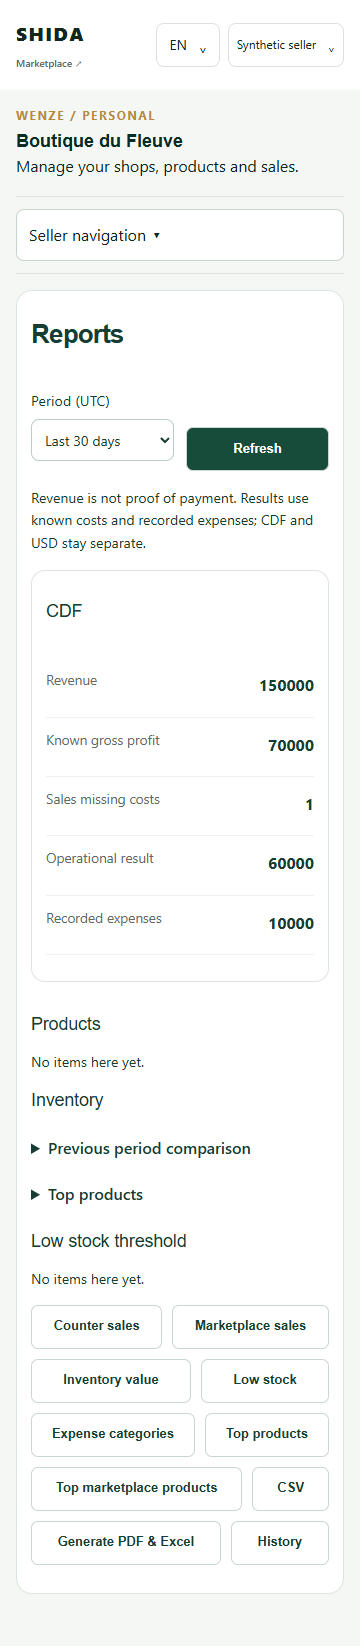
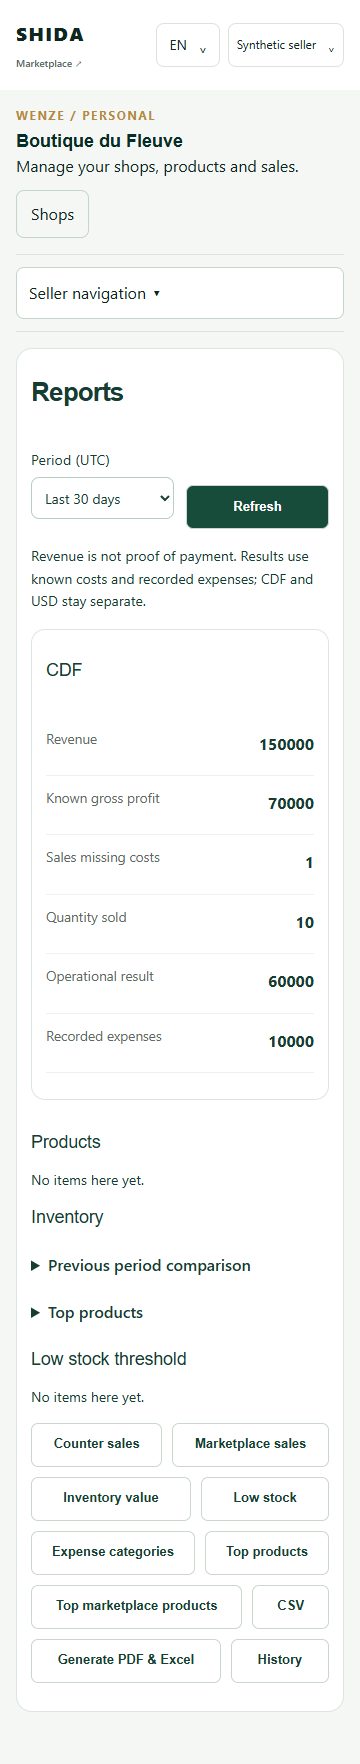
feat(wenze): add Today overview and unlock personal seller tools for testing
- Make Today the default seller screen with order, stock, and financial summaries
- Enable all implemented Free and Pro features during the testing period
- Preserve ownership checks and business account permissions
- Add localized copy and tests for the overview and pilot access

diff --git a/app/components/shida/wenze-workspace.tsx b/app/components/shida/wenze-workspace.tsx
@@ -4,6 +4,7 @@ import Image from "next/image";
 import { useEffect, useRef, useState, type FormEvent } from "react";
 import { useWenzeApi, DashboardApiError } from "@/app/lib/wenze-seller-api";
 import { useWorkDraft, leaveWork } from "@/app/lib/restaurant-work";
+import { WenzeToday } from "./wenze-today";
 import { WenzeOperations } from "./wenze-operations";
 import { sellerText } from "@/app/lib/wenze-seller-copy";
 
@@ -24,7 +25,7 @@ const enc = encodeURIComponent;
 
 export function WenzeWorkspace({locale}:{locale:WenzeLocale}) {
   const {request} = useWenzeApi();
-  const [view,setView]=useState("catalog"),[navigationOpen,setNavigationOpen]=useState(false);
+  const [view,setView]=useState("today"),[navigationOpen,setNavigationOpen]=useState(false);
   const st=(key:string)=>sellerText(locale,key);
   const t = (key: string) => wenzeCopy[locale][key as WenzeKey] ?? "—";
   const context="personal";
@@ -46,9 +47,11 @@ export function WenzeWorkspace({locale}:{locale:WenzeLocale}) {
       if (ticket !== generation.current) return;
       const data = value as { stores: Item[]; categories: Category[]; currencies?: string[] }; setStores(data.stores); setCategories(data.categories); setCurrencies(data.currencies?.length ? data.currencies : ["CDF", "USD"]);
       const params = new URLSearchParams(window.location.search), storeRef = params.get("store"), productRef = params.get("product");
+      if (!storeRef && data.stores.length===1 && !archived) {setStore(data.stores[0]);await loadProducts(data.stores[0],0);}
+      if (!storeRef && params.get("view")==="catalog")setView("catalog");
       if (storeRef) {
         const [selected, selectedProduct] = await Promise.all([request(`${root}/${enc(storeRef)}`), productRef ? request(`${root}/${enc(storeRef)}/products/${enc(productRef)}`) : Promise.resolve(null)]) as Item[];
-        if (ticket === generation.current) { setStore(selected); setProduct(selectedProduct); await loadProducts(selected,0); const destination=params.get("view");if(destination&&["catalog","orders","imports","inventory","sales","costs","expenses","reports","schedules"].includes(destination))setView(destination); }
+        if (ticket === generation.current) { setStore(selected); setProduct(selectedProduct); if(productRef)setView("catalog"); await loadProducts(selected,0); const destination=params.get("view");if(destination&&["today","catalog","orders","imports","inventory","sales","costs","expenses","reports","schedules"].includes(destination))setView(destination); }
       }
     }).catch(() => { if (ticket === generation.current) setError("unavailable"); });
   }, [context, archived]); // eslint-disable-line react-hooks/exhaustive-deps
@@ -155,8 +158,8 @@ export function WenzeWorkspace({locale}:{locale:WenzeLocale}) {
   }
   function variantAction(action: string, variant?: Option, label?: string) { return run(async () => { setProduct(await send(`${productPath}/variants`, "POST", { expected_revision: product?.revision, action, variant_ref: variant?.public_ref, label, available_quantity: null }) as Item); }); }
   const button = (label: string, action: () => void) => <button type="button" disabled={busy} onClick={action}>{t(label)}</button>;
-  return <main className="rst container rst-management wz-personal"><header className="rst-management-identity"><div><p className="eyebrow">WENZE / {t("personal")}</p><h1>{store?.name ?? t("shops")}</h1><p>{st("intro")}</p></div></header><div className="rst-management-layout"><aside className="rst-management-sidebar"><button className="wz-navigation-toggle" type="button" aria-expanded={navigationOpen} onClick={()=>setNavigationOpen(!navigationOpen)}>{st("navigation")} ▾</button><nav className={`rst-management-nav ${navigationOpen?"is-open":""}`} aria-label={st("navigation")}>{["catalog","orders","imports","inventory","sales","costs","expenses","reports","schedules"].map(tab=><button key={tab} aria-current={view===tab?"page":undefined} onClick={()=>{if(leaveWork()){setEditor(null);setView(tab);setNavigationOpen(false);const url=new URL(window.location.href);url.searchParams.set("view",tab);if(store)url.searchParams.set("store",store.public_ref);window.history.replaceState(null,"",url);}}}>{st(tab)}</button>)}</nav></aside><div className="rst-management-content wz">
-    {view==="orders"||view==="imports"?<WenzeR6Workspace key={view} context={context} locale={locale} initialView={view} initialStore={store?.public_ref}/>:view!=="catalog"?<WenzeOperations key={`${store?.public_ref}:${view}`} store={store} locale={locale} view={view} onChoose={()=>setView("catalog")}/>:<>
+  return <main className="rst container rst-management wz-personal"><header className="rst-management-identity"><div><p className="eyebrow">WENZE / {t("personal")}</p><h1>{store?.name ?? t("shops")}</h1><p>{st("intro")}</p></div>{store&&<button className="wz-change-shop" onClick={()=>{if(leaveWork()){setStore(null);setProduct(null);setView("today");}}}>{t("shops")}</button>}</header><div className="rst-management-layout"><aside className="rst-management-sidebar"><button className="wz-navigation-toggle" type="button" aria-expanded={navigationOpen} onClick={()=>setNavigationOpen(!navigationOpen)}>{st("navigation")} ▾</button><nav className={`rst-management-nav ${navigationOpen?"is-open":""}`} aria-label={st("navigation")}>{["today","catalog","orders","imports","inventory","sales","costs","expenses","reports","schedules"].map(tab=><button key={tab} aria-current={view===tab?"page":undefined} onClick={()=>{if(leaveWork()){setEditor(null);setView(tab);if(tab==="catalog"&&store)void run(()=>loadProducts(store,0));setNavigationOpen(false);const url=new URL(window.location.href);url.searchParams.set("view",tab);if(store)url.searchParams.set("store",store.public_ref);window.history.replaceState(null,"",url);}}}>{st(tab)}</button>)}</nav></aside><div className="rst-management-content wz">
+    {view==="today"?<WenzeToday key={store?.public_ref??"none"} store={store} stores={stores} locale={locale} onChoose={row=>{setStore(row as Item);setProduct(null);}} onNavigate={tab=>{setView(tab);if(tab==="catalog"&&store)void run(()=>loadProducts(store,0));}}/>:view==="orders"||view==="imports"?<WenzeR6Workspace key={view} context={context} locale={locale} initialView={view} initialStore={store?.public_ref}/>:view!=="catalog"?<WenzeOperations key={`${store?.public_ref}:${view}`} store={store} locale={locale} view={view} onChoose={()=>setView("catalog")}/>:<>
     {error && <p role="alert">{t(error)}</p>}{busy && <p role="status">{t("loading")}</p>}
     {!store ? <section><h2>{t("shops")}</h2><div className="wz-actions">{canGovern && button("create", () => void openEditor("createStore"))}<label><input type="checkbox" checked={archived} onChange={event => setArchived(event.target.checked)} />{t("archived")}</label></div>{stores.length === 0 && <p>{t("empty")}</p>}<div className="wz-grid">{stores.map(row => <button className="wz-card" key={row.public_ref} onClick={() => void run(async () => { setStore(await request(`${root}/${enc(row.public_ref)}`) as Item); await loadProducts(row, 0); })}><strong>{row.name}</strong><span>{row.city}</span><span>{t(row.catalog_ready ? "ready" : "setup")}</span></button>)}</div></section> : <>
       <section><div className="wz-actions">{button("back", () => { setStore(null); setProduct(null); setEditor(null); setPlan(null); setPreview(null); })}<h2>{store.name}</h2></div><p>{t(store.catalog_ready ? "ready" : "setup")} · {t(store.order_ready ? "orderReady" : "orderSetup")}</p><div className="wz-actions">{canGovern && store.status === "active" && <>{button("edit", () => void openEditor("store"))}{button("fulfillment", () => void openEditor("fulfillment"))}</>}{button("preview", () => void run(async () => { setPreview(await request(`${storePath}/preview`) as Record<string, unknown>); setPlan(null); }))}{canGovern && button("plan", () => void run(async () => { setPlan(await request(`${storePath}/plan`) as Plan); setPreview(null); }))}{canGovern && button(store.status === "active" ? (store.visible === "true" ? "hide" : "show") : "restore", () => void lifecycle(store.status === "active" ? (store.visible === "true" ? "hide" : "show") : "restore", store, storePath))}{canGovern && store.status === "active" && button("archive", () => void lifecycle("archive", store, storePath))}</div></section>
@@ -164,7 +167,7 @@ export function WenzeWorkspace({locale}:{locale:WenzeLocale}) {
       {product.status === "active" && <><h3>{t("photos")}</h3><p>{t("photoHint")}</p><label>{t("upload")}<input disabled={busy} type="file" accept="image/jpeg,image/png,image/webp" multiple onChange={event => void files(event.target.files)} /></label><div className="wz-grid">{product.photos?.map(photo => <article className="wz-card" key={photo.photo_ref}>{/* Hosted URLs come only from the protected backend. */}<Image unoptimized src={photo.url} alt={product.name} width="220" height="180" /><div className="wz-actions">{["cover", "earlier", "later", "remove"].map(action => <button key={action} disabled={busy} onClick={() => void run(async () => setProduct(await send(`${productPath}/photos`, "POST", { expected_revision: product.revision, action, photo_ref: photo.photo_ref }) as Item))}>{t(action)}</button>)}</div><label>{t("replace")}<input disabled={busy} type="file" accept="image/jpeg,image/png,image/webp" onChange={event => void files(event.target.files, photo.photo_ref)} /></label></article>)}</div>
       <h3>{t("stock")}</h3>{!product.variant_type && stockForm()}<h3>{t("variants")}</h3>{product.variants?.map(variant => <article className="wz-card" key={variant.public_ref}><form className="wz-inline" onSubmit={event => { event.preventDefault(); void variantAction("rename", variant, String(new FormData(event.currentTarget).get("label"))); }}><label>{t("label")}<input name="label" defaultValue={variant.label} required /></label><button disabled={busy}>{t("rename")}</button>{button(variant.is_available === "yes" ? "archive" : "reactivate", () => void variantAction(variant.is_available === "yes" ? "archive" : "reactivate", variant))}</form>{variant.is_available === "yes" && stockForm(variant)}</article>)}{product.variant_type && <form className="wz-inline" onSubmit={event => { event.preventDefault(); void variantAction("add", undefined, String(new FormData(event.currentTarget).get("label"))); }}><label>{t("label")}<input name="label" required /></label><button disabled={busy}>{t("add")}</button></form>}</>}</section>}
     </>}
-    {plan && <section><h2>{t("plan")}</h2><p>{t(plan.plan)} · {t("source")}: {t(["free", "trial", "admin_grant"].includes(plan.source) ? plan.source : "pro")}</p><p>{t("expires")}: {plan.expires_at ? new Date(plan.expires_at).toLocaleDateString(locale) : "—"}</p><p>{t("products")}: {plan.active_products} / {plan.active_product_limit}</p><p>{t("allowance")}: {plan.free_import_used} / {plan.free_import_allowance}{plan.free_import_in_progress && ` (${t("progress")})`}</p><p>{t("benefits")}: {t("shops")}, {t("products")}, {t("photos")}, {t("stock")}, {t("variants")}</p><p>{t("noSelfGrant")}</p>{plan.support_url && <a href={plan.support_url} target="_blank" rel="noreferrer">{t("contact")}</a>}</section>}
+    {plan && <section><h2>{t("plan")}</h2><p>{t(plan.plan)} · {t("source")}: {plan.source==="personal_pilot"?st("pilotTitle"):t(["free", "trial", "admin_grant"].includes(plan.source) ? plan.source : "pro")}</p><p>{t("expires")}: {plan.expires_at ? new Date(plan.expires_at).toLocaleDateString(locale) : "—"}</p><p>{t("products")}: {plan.active_products} / {plan.active_product_limit}</p><p>{t("allowance")}: {plan.free_import_used} / {plan.free_import_allowance}{plan.free_import_in_progress && ` (${t("progress")})`}</p><p>{t("benefits")}: {t("shops")}, {t("products")}, {t("photos")}, {t("stock")}, {t("variants")}</p><p>{t("noSelfGrant")}</p>{plan.support_url && <a href={plan.support_url} target="_blank" rel="noreferrer">{t("contact")}</a>}</section>}
     {preview && <section><h2>{String(preview.name ?? "")}</h2><p>{String(preview.description ?? "")}</p>{preview.price != null && <p>{String(preview.price)} {String(preview.currency)}</p>}{preview.address != null && <p>{String(preview.address)}</p>}{typeof preview.public_detail_url === "string" && <a href={preview.public_detail_url} target="_blank" rel="noreferrer">{t("share")}</a>}{button("close", () => setPreview(null))}</section>}
     {editor && <section className="wz-editor"><h2>{t(editor.kind === "createStore" ? "create" : editor.kind === "store" || editor.kind === "product" ? "edit" : editor.kind)}</h2>{editor.latest && <aside><h3>{t("current")}</h3><p>{editor.latest.name} · {editor.latest.price} {editor.latest.currency}</p><p>{editor.latest.description}</p></aside>}{editor.stale && <label><input type="checkbox" onChange={event => setEditor(old => old ? { ...old, stale: !event.target.checked } : null)} />{t("confirmFresh")}</label>}<form onSubmit={save}><div className="wz-fields">
       {editor.kind === "createStore" && [input("name", undefined, true), input("category"), input("city", undefined, true), input("description")]}

diff --git a/tests/browser/wenze-personal.browser.ts b/tests/browser/wenze-personal.browser.ts
@@ -14,7 +14,7 @@ async function fixture(page:Page,plan='pro'){
   if(path.endsWith('/stores'))return reply({stores:[store],categories:[{code:'other',labels:{en:'Other',fr:'Autre',ln:'Mosusu',sw:'Nyingine'}}],currencies:['CDF','USD']});
   if(path.endsWith('/WNS_fixture'))return reply(store);
   if(path.endsWith('/products'))return reply({products:[product],total:1});if(path.endsWith('/WNP_fixture'))return reply(product);
-  if(path.endsWith('/plan'))return reply({plan,active_products:1,active_product_limit:1000,free_import_used:0,free_import_allowance:1,source:'trial'});
+  if(path.endsWith('/plan'))return reply({plan,active_products:1,active_product_limit:1000,free_import_used:0,free_import_allowance:1,source:plan==='pro'?'personal_pilot':'free'});
   if(path.endsWith('/inventory/stock'))return reply({items:[{item_ref:'INV_fixture',catalog_label:product.name,label:product.name,on_hand:14,reserved:2,available:12,revision:2,unit:'piece',low_stock_threshold:3}],next_cursor:null});
   if(path.endsWith('/counts/ISC_fixture'))return reply({count_ref:'ISC_fixture',revision:1,status:'draft',lines:[]});
   if(path.endsWith('/inventory/summary'))return reply({tracked_items:1,low_stock_items:0});
@@ -22,13 +22,13 @@ async function fixture(page:Page,plan='pro'){
   if(path.endsWith('/expenses'))return reply({expenses:[],next_cursor:null});if(path.endsWith('/priced')||path.endsWith('/manual-sales'))return reply({sales:[],next_cursor:null});
   if(path.endsWith('/report-schedules'))return reply({schedules:[]});
   if(path.endsWith('/catalog-imports/options'))return reply({stores:[store],categories:[],currencies:['CDF','USD'],issues:{}});
-  if(path.endsWith('/catalog-imports'))return reply({jobs:[],total:0});if(path.endsWith('/orders'))return reply({orders:[],counts:{},total:0});
-  if(path.endsWith('/pro/dashboard'))return reply({currency_summaries:[{currency:'CDF',combined_sales:{total_revenue:'150000',known_gross_profit:'70000',sales_missing_cost:1},recorded_operating_expenses:{total:'10000'},operational_result:'60000'}],top_items:{top_by_quantity:[]},low_stock:{items:[]}});
+  if(path.endsWith('/catalog-imports'))return reply({jobs:[],total:0});if(path.endsWith('/orders'))return reply({orders:[],counts:{action_required:3,in_progress:2},total:0});
+  if(path.endsWith('/pro/dashboard'))return reply({currency_summaries:[{currency:'CDF',combined_sales:{total_revenue:'150000',known_gross_profit:'70000',sales_missing_cost:1,quantity_sold:10},recorded_operating_expenses:{total:'10000'},operational_result:'60000',completeness:{profit_complete:false}}],top_items:{top_by_quantity:[]},low_stock:{items:[]}});
   return reply({});
  });return state;
 }
-const nav=async(page:Page,name:string)=>{const button=page.locator('.rst-management-nav').getByRole('button',{name,exact:true});if(!await button.isVisible())await page.locator('.wz-navigation-toggle').click();await button.click();};
-async function openStore(page:Page){await page.goto('/shida/seller/wenze');await page.getByRole('button',{name:/Boutique du Fleuve/}).click();}
+const nav=async(page:Page,name:string)=>{const button=page.locator('.rst-management-nav').getByRole('button',{name,exact:true});await page.locator('.rst-management-sidebar').waitFor({state:'attached'});if(!await button.isVisible())await page.locator('.wz-navigation-toggle').click();await button.click();};
+async function openStore(page:Page){await page.goto('/shida/seller/wenze');await nav(page,'Shops & products');}
 test('Personal catalog, Inventory and Pro reports are connected and responsive',async({page})=>{
  await fixture(page);await openStore(page);await expect(page.getByText('Sac en raphia',{exact:true})).toBeVisible();
  await nav(page,'Inventory');await expect(page.getByRole('cell',{name:'Sac en raphia',exact:true})).toBeVisible();
@@ -40,8 +40,13 @@ test('Personal catalog, Inventory and Pro reports are connected and responsive',
 test('Free sellers retain catalog and stock while Pro tools are gated',async({page})=>{await fixture(page,'free');await openStore(page);await nav(page,'Expenses');await expect(page.getByText('This tool requires Wenze Pro for this shop.')).toBeVisible();await expect(page.getByLabel('Amount',{exact:true})).toHaveCount(0);await nav(page,'Counter sales');await expect(page.getByText('Record stock-only sale',{exact:true})).toBeVisible();await expect(page.getByText('Record sale with price · Pro',{exact:true})).toHaveCount(0);});
 test('uncertain expense retries the original payload with the original key',async({page})=>{const state=await fixture(page);await openStore(page);await nav(page,'Expenses');await page.getByLabel('Amount',{exact:true}).fill('1000');await page.getByLabel('Private note',{exact:true}).fill('Fixture');state.fail=true;await page.getByRole('button',{name:'Save',exact:true}).click();await expect(page.getByText(/result is not confirmed/)).toBeVisible();await page.getByRole('button',{name:'Retry the same action',exact:true}).click();await expect.poll(()=>state.writes.length).toBe(2);expect(state.writes[0]).toEqual(state.writes[1]);await expect(page.getByText('Saved',{exact:true})).toBeVisible();});
 test('session expiry clears private content immediately',async({page})=>{const state=await fixture(page);await openStore(page);state.session=false;await page.evaluate(()=>window.dispatchEvent(new Event('focus')));await expect(page.getByRole('heading',{name:'Your Wenze seller area'})).toBeVisible();await expect(page.getByText('Sac en raphia',{exact:true})).toHaveCount(0);});
-for(const locale of ['fr','ln','sw'])test(`localized seller route ${locale}`,async({page})=>{await fixture(page);await page.setViewportSize({width:360,height:800});await page.goto(`/${locale}/shida/seller/wenze`);await expect(page.getByRole('button',{name:/Boutique du Fleuve/})).toBeVisible();expect(await page.evaluate(()=>document.documentElement.scrollWidth<=window.innerWidth)).toBe(true);});
+for(const locale of ['fr','ln','sw'])test(`localized seller route ${locale}`,async({page})=>{await fixture(page);await page.setViewportSize({width:360,height:800});await page.goto(`/${locale}/shida/seller/wenze`);await expect(page.getByRole('heading',{name:'Boutique du Fleuve',exact:true})).toBeVisible();expect(await page.evaluate(()=>document.documentElement.scrollWidth<=window.innerWidth)).toBe(true);});
 test('stock thresholds preserve revisions and stock-only sales use the exact Inventory item',async({page})=>{const state=await fixture(page,'free');await openStore(page);await nav(page,'Inventory');await page.getByRole('combobox',{name:'Choose a stock item',exact:true}).first().selectOption('INV_fixture');await page.getByLabel('Low stock threshold',{exact:true}).fill('5');await page.getByRole('button',{name:'Save',exact:true}).click();await expect.poll(()=>state.writes.length).toBe(1);expect(state.writes[0].body).toEqual({expected_revision:2,low_stock_threshold:5});await expect(page.getByText('Saved',{exact:true})).toBeVisible();await nav(page,'Counter sales');await page.getByRole('combobox',{name:'Choose a stock item',exact:true}).selectOption('INV_fixture');await page.getByLabel('Quantity',{exact:true}).fill('2');await page.getByRole('button',{name:'Record stock-only sale',exact:true}).click();await expect.poll(()=>state.writes.length).toBe(2);expect(state.writes[1].body.lines).toEqual([{item_ref:'INV_fixture',quantity:2,unit:'piece'}]);});
 test('private cost edits and scheduled reports use the existing Pro contracts',async({page})=>{const state=await fixture(page);await openStore(page);await nav(page,'Private costs');await page.getByRole('combobox',{name:'Choose a product',exact:true}).selectOption('WNP_fixture');await page.getByRole('button',{name:'Manage',exact:true}).click();await page.getByLabel('Amount',{exact:true}).fill('5000');await page.getByRole('button',{name:'Save',exact:true}).click();await expect.poll(()=>state.writes.length).toBe(1);expect(state.writes[0].body).toEqual({expected_revision:1,amount:'5000',currency:'CDF'});await expect(page.getByText('Saved',{exact:true})).toBeVisible();await nav(page,'Scheduled reports');await page.getByRole('combobox',{name:'Scheduled reports',exact:true}).selectOption('monthly');await page.getByRole('button',{name:'Save',exact:true}).click();await expect.poll(()=>state.writes.length).toBe(2);expect(state.writes[1].path).toContain('/report-schedules/monthly');expect(state.writes[1].body).toEqual({enabled:true,formats:['pdf','xlsx'],language:'en'});});
 
 test('an active stock count resumes after a refresh',async({page})=>{await fixture(page,'free');await openStore(page);await nav(page,'Inventory');await page.getByRole('button',{name:'Start count',exact:true}).click();await expect(page).toHaveURL(/count=ISC_fixture/);await page.reload();await expect(page.getByRole('button',{name:'Confirm stock count',exact:true})).toBeVisible();await expect(page.getByRole('button',{name:'Start count',exact:true})).toHaveCount(0);});
+
+test('Today is the default with current work and unlocked pilot statistics',async({page})=>{await fixture(page);await page.goto('/shida/seller/wenze');await expect(page.getByRole('heading',{name:'Today',exact:true})).toBeVisible();await expect(page.getByText('undefined',{exact:true})).toHaveCount(0);await expect(page.getByText('Full access · testing period',{exact:true})).toBeVisible();await expect(page.getByText('150000',{exact:true})).toBeVisible();await expect(page.getByText('Some sales have no recorded cost. Profit figures are incomplete.',{exact:true})).toBeVisible();await expect(page.getByRole('button',{name:/Needs your attention/})).toContainText('3');await page.setViewportSize({width:1440,height:1000});await page.screenshot({path:'docs/evidence/wenze-personal/today-desktop.png',fullPage:true});await page.setViewportSize({width:360,height:800});await page.screenshot({path:'docs/evidence/wenze-personal/today-mobile.png',fullPage:true});expect(await page.evaluate(()=>document.documentElement.scrollWidth<=window.innerWidth)).toBe(true);await page.getByRole('button',{name:/Needs your attention/}).click();await expect(page.locator('.wz-r6')).toBeVisible();});
+test('Free fallback shows operational work without pretending financial data is zero',async({page})=>{await fixture(page,'free');await page.goto('/shida/seller/wenze');await expect(page.getByRole('button',{name:/Needs your attention/})).toContainText('3');await expect(page.getByText(/Financial statistics require Pro/)).toBeVisible();await expect(page.getByText('150000',{exact:true})).toHaveCount(0);});
+test('Today handles a partial failure without hiding the other summaries',async({page})=>{await fixture(page);await page.route('**/inventory/summary/',route=>route.fulfill({status:503,json:{}}));await page.goto('/shida/seller/wenze');await expect(page.getByText('Some information could not be loaded. Refresh to try again.',{exact:true})).toBeVisible();await expect(page.getByRole('button',{name:/Low-stock items/})).toContainText('—');await expect(page.getByText('150000',{exact:true})).toBeVisible();});
+test('an explicit product link opens the catalog instead of Today',async({page})=>{await fixture(page);await page.goto('/shida/seller/wenze?store=WNS_fixture&product=WNP_fixture');await expect(page.getByRole('heading',{name:'Sac en raphia',exact:true})).toBeVisible();});

diff --git a/app/components/shida/wenze-today.tsx b/app/components/shida/wenze-today.tsx
@@ -1,0 +1,34 @@
+"use client";
+import {useEffect,useState} from 'react';
+import {useWenzeApi} from '@/app/lib/wenze-seller-api';
+import {sellerText} from '@/app/lib/wenze-seller-copy';
+import type {WenzeLocale} from '@/app/lib/wenze-copy';
+import {WenzeReportFacts} from './wenze-report-facts';
+type Shop={public_ref:string;name:string;catalog_ready?:boolean;order_ready?:boolean};
+type Row=Record<string,unknown>;
+const object=(value:unknown):Row=>value&&typeof value==='object'&&!Array.isArray(value)?value as Row:{};
+const array=(value:unknown):Row[]=>Array.isArray(value)?value as Row[]:[];
+export function WenzeToday({store,stores,locale,onChoose,onNavigate}:{store:Shop|null;stores:Shop[];locale:WenzeLocale;onChoose:(shop:Shop)=>void;onNavigate:(tab:string)=>void}){
+ const {request}=useWenzeApi(),t=(key:string)=>sellerText(locale,key);
+ const [snapshot,setSnapshot]=useState<{plan:Row|null;orders:Row|null;stock:Row|null;report:Row|null}>({plan:null,orders:null,stock:null,report:null});
+ const [refresh,setRefresh]=useState(0),[busy,setBusy]=useState(false),[partial,setPartial]=useState(false);
+ useEffect(()=>{if(!store)return;let active=true;const base=`wenze/contexts/personal/stores/${encodeURIComponent(store.public_ref)}`;
+  async function load(){setBusy(true);setPartial(false);setSnapshot({plan:null,orders:null,stock:null,report:null});
+   const results=await Promise.allSettled([request(`${base}/plan`),request(`wenze/contexts/personal/orders?store_ref=${encodeURIComponent(store!.public_ref)}&language=${locale}&bucket=action_required&limit=5`),request(`${base}/inventory/summary`)]);
+   if(!active)return;const [p,o,s]=results.map(result=>result.status==='fulfilled'?object(result.value):null);setSnapshot({plan:p,orders:o,stock:s,report:null});let failed=results.some(r=>r.status==='rejected');
+   if(p?.plan==='pro'){try{const report=object(await request(`${base}/pro/dashboard?period=today&top_limit=5&low_stock_limit=5`));if(active)setSnapshot(old=>({...old,report}));}catch{failed=true;}}
+   if(active){setPartial(failed);setBusy(false);}
+  }void load();return()=>{active=false;};
+ },[store,locale,request,refresh]);
+ if(!store)return <section className="wz-today"><h2>{t('todayTitle')}</h2><p>{t('choose')}</p><div className="wz-grid">{stores.map(shop=><button className="wz-card" key={shop.public_ref} onClick={()=>onChoose(shop)}>{shop.name}</button>)}</div><button onClick={()=>onNavigate('catalog')}>{t('create')}</button></section>;
+ const counts=object(snapshot.orders?.counts),stock=snapshot.stock,report=snapshot.report;
+ const metric=(title:string,value:unknown,destination:string)=><button className="wz-today-metric" onClick={()=>onNavigate(destination)}><span>{t(title)}</span><strong>{typeof value==='number'?new Intl.NumberFormat(locale).format(value):'—'}</strong><span aria-hidden="true">↗</span></button>;
+ return <section className="wz-today"><div className="wz-today-heading"><div><h2>{t('todayTitle')}</h2><p>{t('todayWork')}</p></div><button disabled={busy} onClick={()=>setRefresh(refresh+1)}>{t('refresh')}</button></div>
+ {snapshot.plan?.source==='personal_pilot'&&<aside className="wz-pilot"><strong>{t('pilotTitle')}</strong><p>{t('pilotNote')}</p></aside>}
+ {busy&&<p role="status">{t('loading')}</p>}{partial&&<p role="alert">{t('partialToday')}</p>}
+ <h3>{t('currentWork')}</h3><div className="wz-today-metrics">{metric('actionRequired',counts.action_required,'orders')}{metric('inProgress',counts.in_progress,'orders')}{metric('lowStockCount',stock?.low_stock_items,'inventory')}{metric('stockUnknown',stock?Number(stock.untracked_items??0)+Number(stock.uninitialized_items??0):null,'inventory')}</div>
+ {(!store.catalog_ready||!store.order_ready)&&<div className="wz-actions">{!store.catalog_ready&&<button onClick={()=>onNavigate('catalog')}>{t('setupShop')}</button>}{!store.order_ready&&<button onClick={()=>onNavigate('catalog')}>{t('setupOrders')}</button>}</div>}
+ <h3>{t('quickActions')}</h3><div className="wz-actions">{['orders','catalog','sales','inventory','expenses','imports'].map(tab=><button key={tab} onClick={()=>onNavigate(tab)}>{t(tab)}</button>)}</div>
+ <h3>{t('todayStats')}</h3>{report?<><p>{t('reportHint')}</p>{array(report.currency_summaries).length===0?<p>{t('noTodaySales')}</p>:<div className="wz-grid">{array(report.currency_summaries).map(row=>{const sales=object(row.combined_sales);return <article className="wz-card" key={String(row.currency)}><h4>{String(row.currency)}</h4><WenzeReportFacts locale={locale} value={{total_revenue:sales.total_revenue,quantity_sold:sales.quantity_sold,known_gross_profit:sales.known_gross_profit,recorded_operating_expenses:object(row.recorded_operating_expenses).total,operational_result:row.operational_result}}/>{object(row.completeness).profit_complete===false&&<p className="wz-today-warning">{t('missingCostsWarning')}</p>}</article>;})}</div>}<button onClick={()=>onNavigate('reports')}>{t('reports')} →</button></>:!busy&&snapshot.plan?.plan==='free'?<p>{t('todayFree')}</p>:!busy&&<p>{t('unavailable')}</p>}
+ </section>;
+}

diff --git a/app/lib/wenze-seller-copy.ts b/app/lib/wenze-seller-copy.ts
@@ -1,6 +1,8 @@
 import {wenzeCopy,type WenzeLocale,type WenzeKey} from './wenze-copy';
 // Order: English, French, Lingala, Swahili.
 const labels:Record<string,string[]>={
+ todayTitle:['Today','Aujourd’hui','Lelo','Leo'],todayWork:['Your shop at a glance','Votre boutique en un coup d’œil','Boutique na yo na mokuse','Duka lako kwa muhtasari'],currentWork:['Current work · all dates','À traiter maintenant · toutes dates','Mosala ya sikoyo · mikolo nyonso','Kazi ya sasa · tarehe zote'],actionRequired:['Needs your attention','À traiter','Esengi otala','Inahitaji hatua'],inProgress:['Orders in progress','Commandes en cours','Bakomande ezali kosalema','Maagizo yanayoendelea'],lowStockCount:['Low-stock items','Articles en stock bas','Biloko ya stock moke','Bidhaa zenye stock ndogo'],stockUnknown:['Stock not tracked','Stock non suivi','Stock elandami te','Stock isiyofuatiliwa'],todayStats:['Today’s statistics (UTC)','Statistiques du jour (UTC)','Statistiques ya lelo (UTC)','Takwimu za leo (UTC)'],pilotTitle:['Full access · testing period','Accès complet · période de test','Accès nyonso · eleko ya komeka','Ufikiaji kamili · kipindi cha majaribio'],pilotNote:['All implemented Wenze tools are available during testing. No subscription is required.','Tous les outils Wenze disponibles sont ouverts pendant les tests. Aucun abonnement requis.','Bisaleli nyonso ya Wenze efungwami mpo na komeka. Abonnement esengami te.','Zana zote zilizotekelezwa za Wenze zinapatikana kwa majaribio. Hakuna usajili unaohitajika.'],partialToday:['Some information could not be loaded. Refresh to try again.','Certaines informations sont indisponibles. Actualisez pour réessayer.','Ba informations mosusu ezali te. Zongisa sika mpo na komeka lisusu.','Baadhi ya taarifa hazikupatikana. Sasisha ujaribu tena.'],setupShop:['Finish shop setup','Terminer la configuration','Silisa kobongisa boutique','Kamilisha mipangilio ya duka'],setupOrders:['Set up pickup and delivery','Configurer le retrait et la livraison','Bongisa kozwa na boutique mpe livraison','Sanidi uchukuaji na usafirishaji'],noTodaySales:['No recorded sales or expenses today.','Aucune vente ni dépense enregistrée aujourd’hui.','Vente to dépense ekomami lelo ezali te.','Hakuna mauzo wala matumizi yaliyorekodiwa leo.'],quickActions:['Quick actions','Actions rapides','Misala ya mbangu','Vitendo vya haraka'],missingCostsWarning:['Some sales have no recorded cost. Profit figures are incomplete.','Certaines ventes n’ont pas de coût enregistré. Les marges sont incomplètes.','Ventes mosusu ezangi coût. Marge ezali mobimba te.','Baadhi ya mauzo hayana gharama. Takwimu za faida hazijakamilika.'],todayFree:['Operational overview is available on Free. Financial statistics require Pro when the testing period is closed.','L’aperçu opérationnel est disponible en Free. Les statistiques financières nécessitent Pro après la période de test.','Aperçu ya mosala ezali na Free. Statistiques ya mbongo esengi Pro soki eleko ya komeka esili.','Muhtasari wa kazi unapatikana kwa Free. Takwimu za fedha zinahitaji Pro baada ya majaribio.'],
+
  marketplace_top_items:['Top marketplace products','Meilleurs produits Marketplace','Biloko ya liboso na Marketplace','Bidhaa zinazoongoza Marketplace'],
  conflict:['This information changed. Refresh and review it before saving again.','Ces informations ont changé. Actualisez-les et vérifiez-les avant de réessayer.','Ba informations ebongwani. Zongisa sika mpe tala lisusu liboso ya kobomba.','Taarifa zimebadilika. Sasisha na ukague kabla ya kuhifadhi tena.'],savedRefreshFailed:['Saved. Refresh to see the latest information.','Enregistré. Actualisez pour voir les dernières informations.','Ebombami. Zongisa sika mpo na komona ba informations ya sika.','Imehifadhiwa. Sasisha kuona taarifa mpya.'],
 

diff --git a/app/components/shida/wenze-seller.css b/app/components/shida/wenze-seller.css
@@ -5,3 +5,6 @@
 
 .wz-personal .rst-management-nav{display:flex;flex-direction:column;gap:5px}.wz-personal .rst-management-nav>button{display:block;width:100%;text-align:left;padding:12px 14px;border:0;border-radius:7px;font:inherit;cursor:pointer}.wz-personal .wz button{font:inherit;font-size:.9rem}.wz-personal .wz-table table{min-width:580px;overflow-wrap:normal}.wz-personal .wz-table td,.wz-personal .wz-table th{word-break:normal}.wz-navigation-toggle{display:none}.wz-personal .wz-report-facts dl{border:0;padding:0}.wz-personal .wz-report-facts dl>div{border-bottom:1px solid #eef2ed;padding:10px 0}.wz-personal .wz-report-facts dd{font-variant-numeric:tabular-nums;white-space:nowrap}.wz-personal .wz-report-facts dt{max-width:70%;overflow-wrap:normal}
 @media(max-width:760px){.wz-navigation-toggle{display:block;width:100%;text-align:left;padding:12px;border:1px solid #c4d5c9;border-radius:8px;background:white;font:inherit}.wz-personal .rst-management-nav{display:none}.wz-personal .rst-management-nav.is-open{display:flex;flex-direction:column;margin-top:8px}.wz-personal .rst-management-nav>button{width:100%}.wz-personal .wz-report-facts dl>div{gap:12px}}
+
+.wz-today-heading{display:flex;align-items:center;justify-content:space-between;gap:16px}.wz-today-heading h2{margin-bottom:4px!important}.wz-today-metrics{display:grid;grid-template-columns:repeat(4,minmax(0,1fr));gap:14px;margin:20px 0 30px}.wz-personal .wz-today-metric{display:flex;flex-direction:column;align-items:flex-start;gap:14px;background:#f4f7f1;padding:20px;border-radius:12px;text-align:left}.wz-today-metric strong{font-size:2rem;line-height:1}.wz-today-metric>span:last-child{align-self:flex-end}.wz-pilot{background:#e4eee4;border-left:3px solid #287046;padding:16px 20px;margin:20px 0;border-radius:8px}.wz-pilot p{margin:6px 0 0}.wz-today-warning{color:#784b12;background:#fff6df;padding:12px;border-radius:8px}.wz-change-shop{border:1px solid #c4d5c9;border-radius:8px;padding:10px 14px;cursor:pointer}
+@media(max-width:900px){.wz-today-metrics{grid-template-columns:repeat(2,minmax(0,1fr))}}@media(max-width:420px){.wz-personal .wz-today-metric{padding:14px}.wz-today-heading{align-items:flex-start}.wz-today-heading p{max-width:180px}}

diff --git a/app/components/shida/wenze-report-facts.tsx b/app/components/shida/wenze-report-facts.tsx
@@ -7,5 +7,5 @@ export function WenzeReportFacts({value,locale}:{value:unknown;locale:WenzeLocal
  if(Array.isArray(value))return <div className="wz-grid">{value.map((row,i)=><WenzeReportFacts key={i} value={row} locale={locale}/>)}</div>;
  if(!value||typeof value!=='object')return null;
  const entries=Object.entries(value),metrics=entries.filter(([key,v])=>fields.has(key)&&(v===null||typeof v!=='object'));
- return <div className="wz-report-facts">{metrics.length>0&&<dl>{metrics.map(([key,v])=><div key={key}><dt>{t(key)}</dt><dd>{v===null?'—':typeof v==='boolean'?t(v?'yes':'no'):String(v)}</dd></div>)}</dl>}{entries.filter(([key,v])=>groups.has(key)&&v!==null&&typeof v==='object').map(([key,v])=><section key={key}><h4>{t(key)}</h4><WenzeReportFacts value={v} locale={locale}/></section>)}</div>;
+ return <div className="wz-report-facts">{metrics.length>0&&<dl>{metrics.map(([key,v])=><div key={key}><dt>{t(key)}</dt><dd>{v==null?'—':typeof v==='boolean'?t(v?'yes':'no'):String(v)}</dd></div>)}</dl>}{entries.filter(([key,v])=>groups.has(key)&&v!==null&&typeof v==='object').map(([key,v])=><section key={key}><h4>{t(key)}</h4><WenzeReportFacts value={v} locale={locale}/></section>)}</div>;
 }

diff --git a/docs/wenze-personal-seller-2026-10-16.md b/docs/wenze-personal-seller-2026-10-16.md
@@ -1,5 +1,7 @@
 # Personal Wenze seller area
 
+**Today / pilot update:** Today is now the default selected-shop overview. Current order/stock work is shown separately from today’s UTC financial figures. During the pre-subscription Personal pilot, the backend grants implemented Pro access without subscription or persisted grants (`WENZE_PERSONAL_PILOT_ENABLED=true`, default). Deploy Backend and website together. Organizations are unchanged.
+
 Implemented in nihiloba-website. Entry: `/shida/seller/wenze`; localized entries `/fr/shida/seller/wenze`, `/ln/shida/seller/wenze`, `/sw/shida/seller/wenze` (and `/en/...`). Public Wenze collection links to the seller area. A `store` and optional `product` query can open a specific owned catalog item.
 
 The workspace uses Restaurant’s Personal WhatsApp sign-in, session boundary, account controls, private-page headers and visual shell. It has its own Wenze navigation. It does not require an Organization. No backend schema or entitlement changes are needed.
